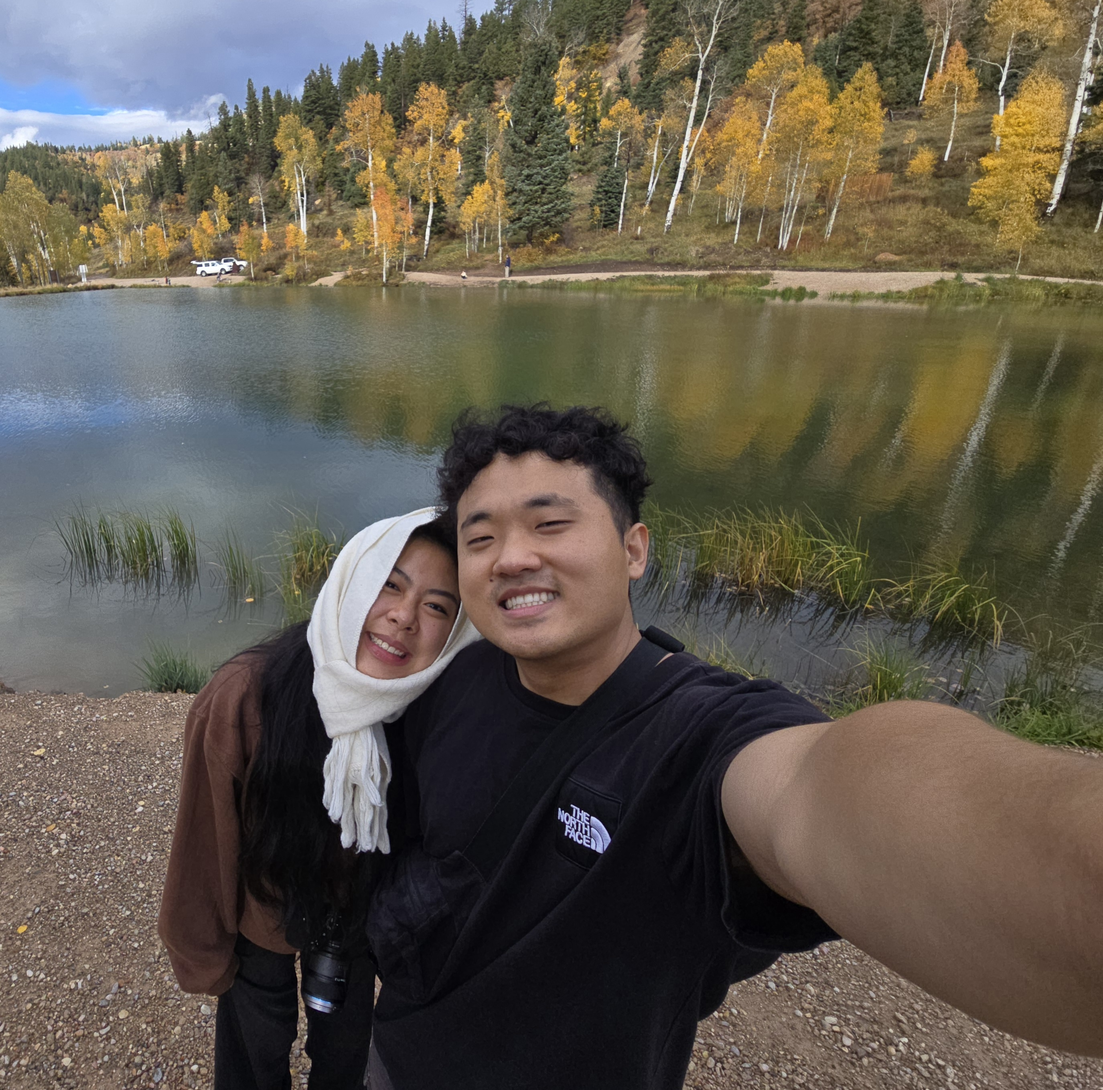
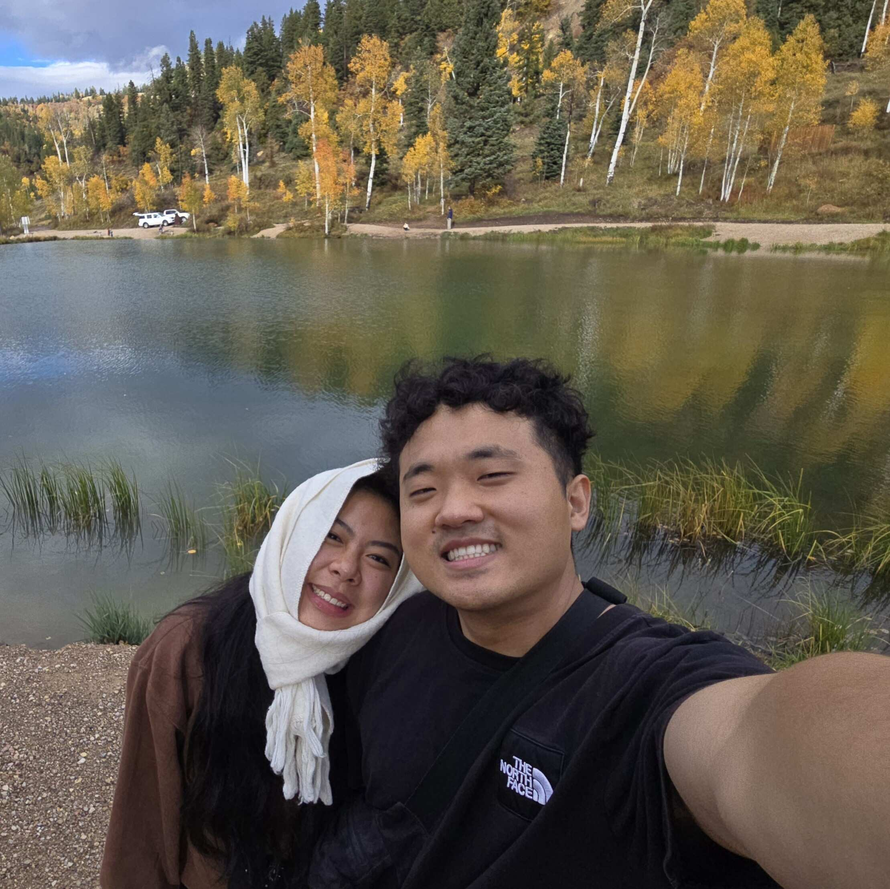
front pics adj for mobile

diff --git a/src/routes/+page.svelte b/src/routes/+page.svelte
@@ -58,38 +58,38 @@
 				{/key}
 			</div>
 		</div>
-		<div class="flex-1 [@media(min-width:1500px)]:mx-[10%] [@media(min-width:2560px)]:mx-[15%]">
+		<div class="flex-1 [@media(min-width:1500px)]:mx-[10%] [@media(min-width:2560px)]:mx-[20%]">
 			<div class="{isMobile.current ? 'pt-5' : 'pt-65'}">
 				<div class="relative w-full h-[400px] mt-8">
 					<img 
 						src="{selfie1}" 
 						alt="Description"
 						class="absolute w-32 h-32 object-cover rounded-lg shadow-lg animate-float-1"
-						style="top: 20px; {isMobile.current ? "left: 0%;" : "left: 5%;"} animation-delay: 0s;"
+						style="top: 12px; {isMobile.current ? "left: 0%;" : "left: 5%;"} animation-delay: 0s;"
 					/>
 					<img 
 						src="{selfie1}" 
 						alt="Description"
 						class="absolute w-32 h-32 object-cover rounded-lg shadow-lg animate-float-2"
-						style="top: 125px; left: 25%; animation-delay: 0s;"
+						style="{isMobile.current ? "top: 150px; left: 13%;" : "top: 125px; left: 25%;"} animation-delay: 0s;"
 					/>
 					<img 
 						src="{selfie1}" 
 						alt="Description"
 						class="absolute w-32 h-32 object-cover rounded-lg shadow-lg animate-float-3"
-						style="top: 10px; left: 45%; animation-delay: 0s;"
+						style="{isMobile.current ? "top: 1px; left: 35%;" : "top: 1px; left: 45%;"} animation-delay: 0s;"
 					/>
 					<img 
 						src="{selfie1}" 
 						alt="Description"
 						class="absolute w-32 h-32 object-cover rounded-lg shadow-lg animate-float-4"
-						style="top: 130px; left: 65%; animation-delay: 0s;"
+						style="{isMobile.current ? "top: 150px; left: 55%;" : "top: 130px; left: 65%;"} animation-delay: 0s;"
 					/>
 					<img 
 						src="{selfie1}" 
 						alt="Description"
 						class="absolute w-32 h-32 object-cover rounded-lg shadow-lg animate-float-5"
-						style="top: 15px; left: 85%; animation-delay: 0s;"
+						style="{isMobile.current ? "top: 15px; left: 70%;" : "top: 15px; left: 85%;"} animation-delay: 0s;"
 					/>
 				</div>
 			</div>
